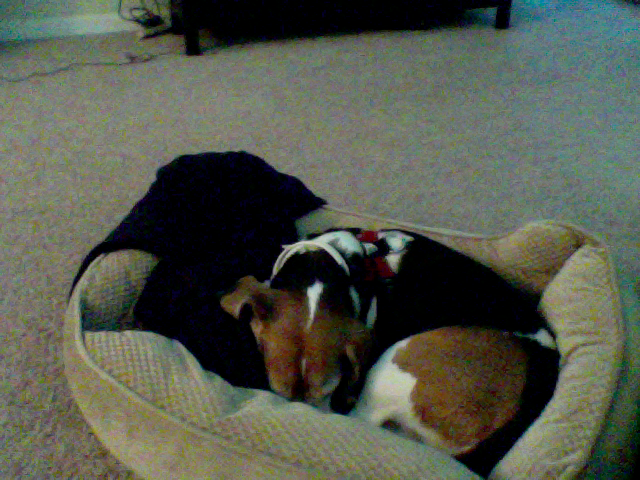
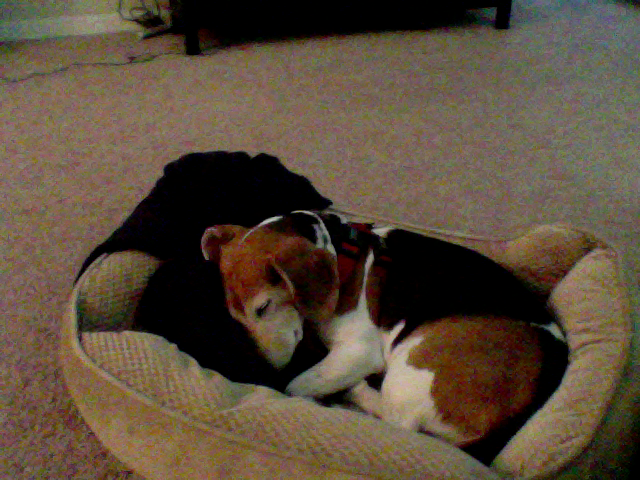
update at Month05Day12Time11:36

diff --git a/index.html b/index.html
@@ -39,8 +39,8 @@
       <!-- Example row of columns -->
       <div class="row">
         <div class="col-md-4">
-	<p>This picture was updated at Month05Day12Time11:35</p>
-		<img src="3_pic.png" />
+	<p>This picture was updated at Month05Day12Time11:36</p>
+		<img src="9_pic.png" />
         </div>
       </div>
 
